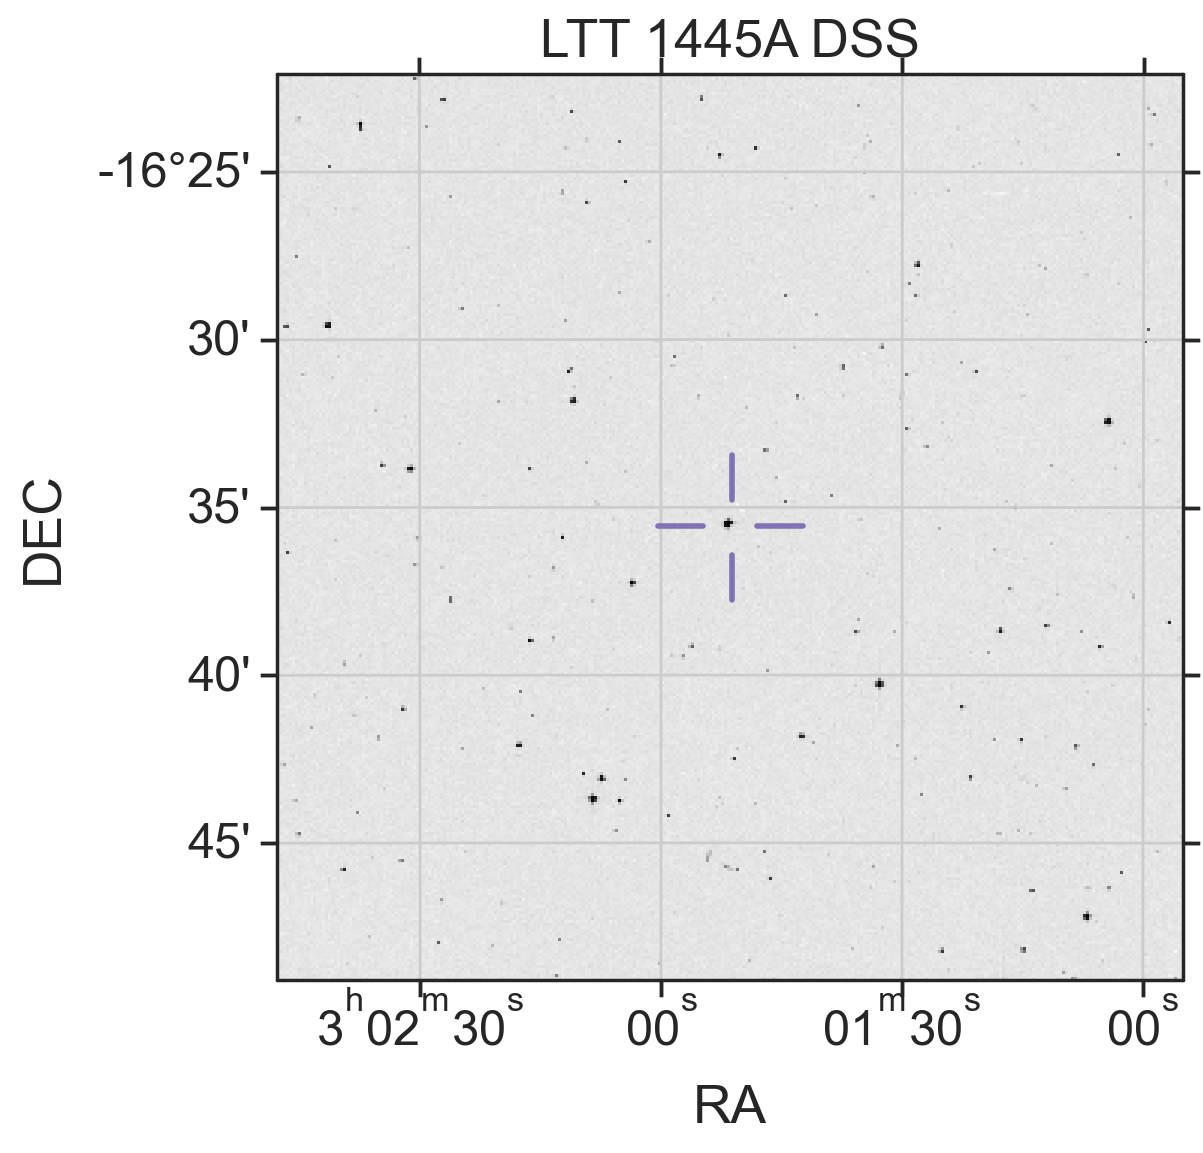
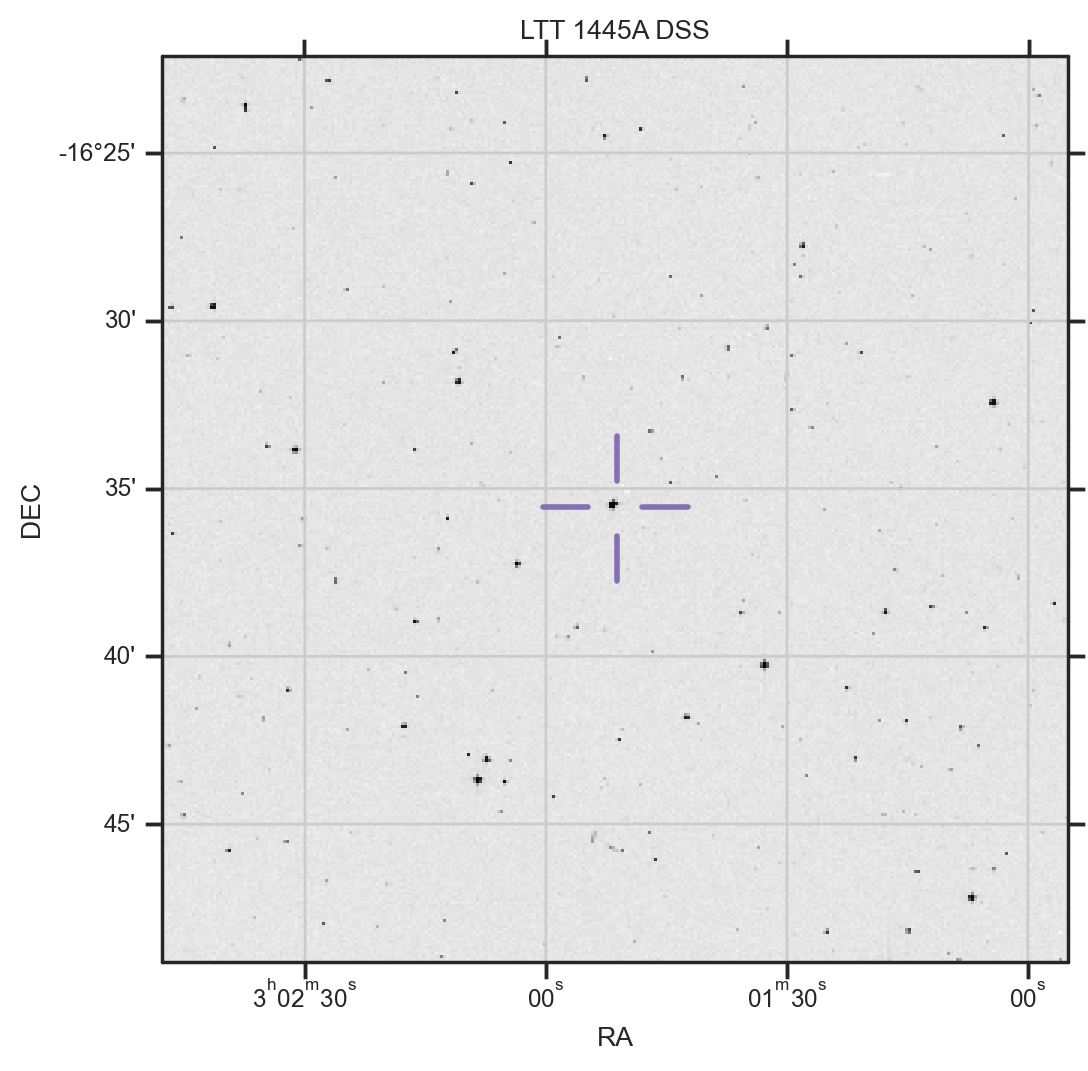
check stars around M dwarfs

diff --git a/checkfield/checkfield.py b/checkfield/checkfield.py
@@ -11,8 +11,8 @@ from astroplan.plots import plot_finder_image
 
 import matplotlib.pyplot as plt
 import seaborn as sns
-sns.set(style='ticks', font_scale=1.6, font='sans-serif')
-plt.rcParams["figure.figsize"] = (14,7)
+sns.set(style='ticks', font_scale=1.6*0.5, font='sans-serif')
+plt.rcParams["figure.figsize"] = (14*0.5,7*0.5)
 from matplotlib import rc
 rc('text', usetex=False)
 
@@ -79,7 +79,7 @@ def check_field(name, fov, parallax_cut=2., plot=False):
         plt.xlabel("$H_w$ mag")
         plt.ylabel("stellar radius ($R_\odot$)")
         plt.yscale("log")
-        plt.plot(d.Hwmag, d.rad, 'o')
+        plt.plot(d.Hwmag, d.rad, '.')
         plt.title("stars around %s"%name)
         plt.savefig("%s_rad_hw.png"%name, dpi=200, bbox_inches="tight");
 
